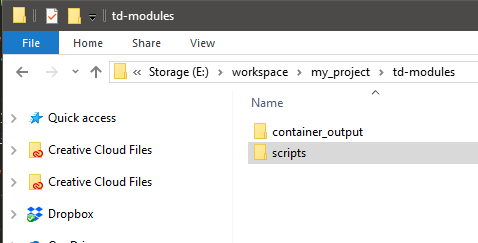
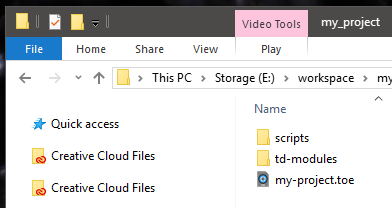
fixes to paths in readme - fixes to incorrect asset - scripts.png

diff --git a/README.md b/README.md
@@ -122,30 +122,30 @@ If you're using a text editor for supported externalized files, than work as you
 ## External Text based files
 1. Start by following the instructions above to set up your project with the `base_save.tox`
 2. Create a folder in your project for scripts or modules.  
-![external-tox-color](assets/scripts.png)
+![scripts](assets/scripts.png)
 
 3. Add a new text DAT to your network, right click and save externally.  
-![external-tox-color](assets/external-script.gif)
+![external-script](assets/external-script.gif)
 
 4. Set path to your external file in your text DAT and turn on the load on start parameter.  
-![external-tox-color](assets/set-path.png)
+![set-path](https://github.com/raganmd/touchdesigner-save-external/blob/master/assets/set-path.PNG?raw=true)
 
 5. Now open your text file in your external editor and work directly with your text file. When you save your file you should see the background of TouchDesigner flash, and the contents of your text DAT reload.  
-![external-tox-color](assets/work-in-external-editor.gif)
+![external-editor](assets/work-in-external-editor.gif)
 
 ## External Extensions
 1. Start by following the instructions above to set up your project with the `base_save.tox`
 2. Follow the instructions above for externalizing a python file - this time, make sure you save your `.py` file inside of your tox's folder, and make sure that the text DAT is inside of the component that will use the extensions.  
-![external-tox-color](assets/py-file-with-comp.png)
+![py-file-with-comp](https://github.com/raganmd/touchdesigner-save-external/blob/master/assets/py-file-with-comp.PNG?raw=true)
 
 3. Tag your text DAT with `EXT` or whatever extension flag you've chosen.  
-![external-tox-color](https://github.com/raganmd/touchdesigner-save-external/blob/master/assets/add-tag.PNG?raw=true)
+![add-tag](https://github.com/raganmd/touchdesigner-save-external/blob/master/assets/add-tag.PNG?raw=true)
 
 4. Set up a simple extension.  
-![external-tox-color](assets/ext-set-up.png)
+![ext-set-up](https://github.com/raganmd/touchdesigner-save-external/blob/master/assets/ext-set-up.PNG?raw=true)
 
 5. Now open your extension in your external editor and work directly with your `.py` file. When you save your file you should see the background of TouchDesigner flash, the contents of your text DAT reload, and your extension will be reinitialized.  
-![external-tox-color](assets/updating-ext.gif)
+![updating-ext](assets/updating-ext.gif)
 
 # Additional Considerations and Suggestions
 At this point, you might have guess that this kind of approach works best in well structured projects. Some suggestions for organization and approach:
